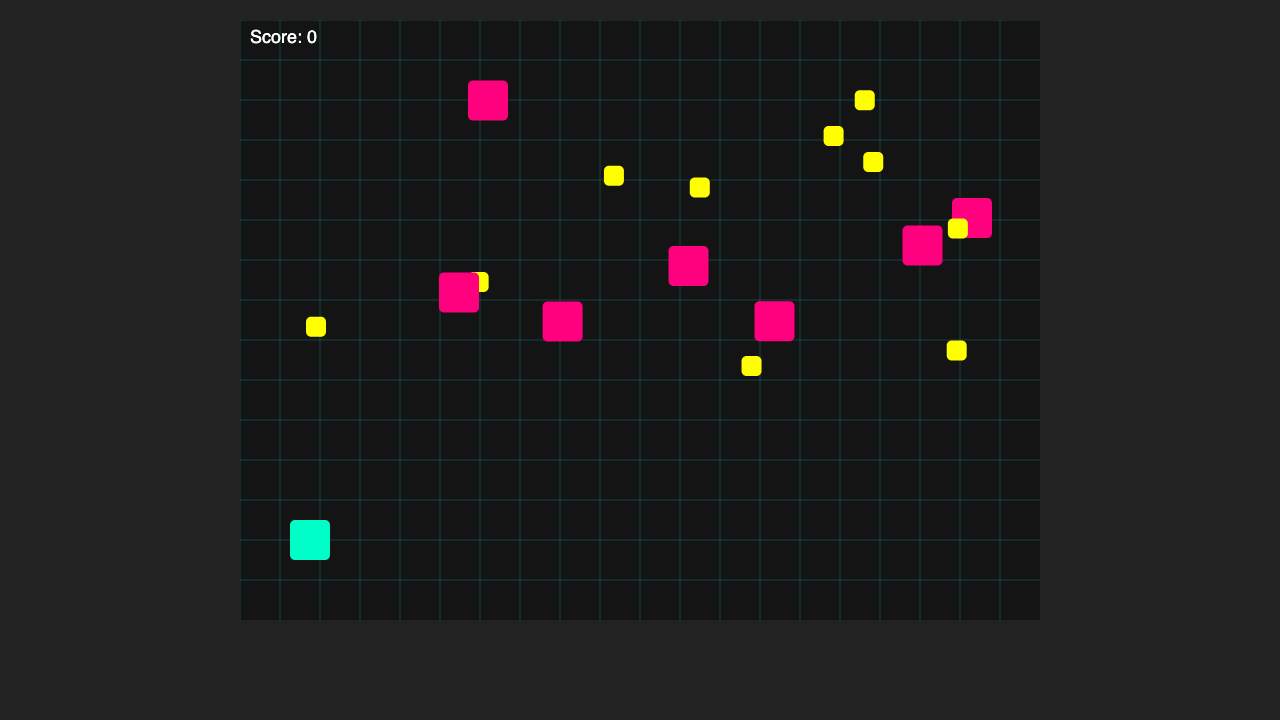
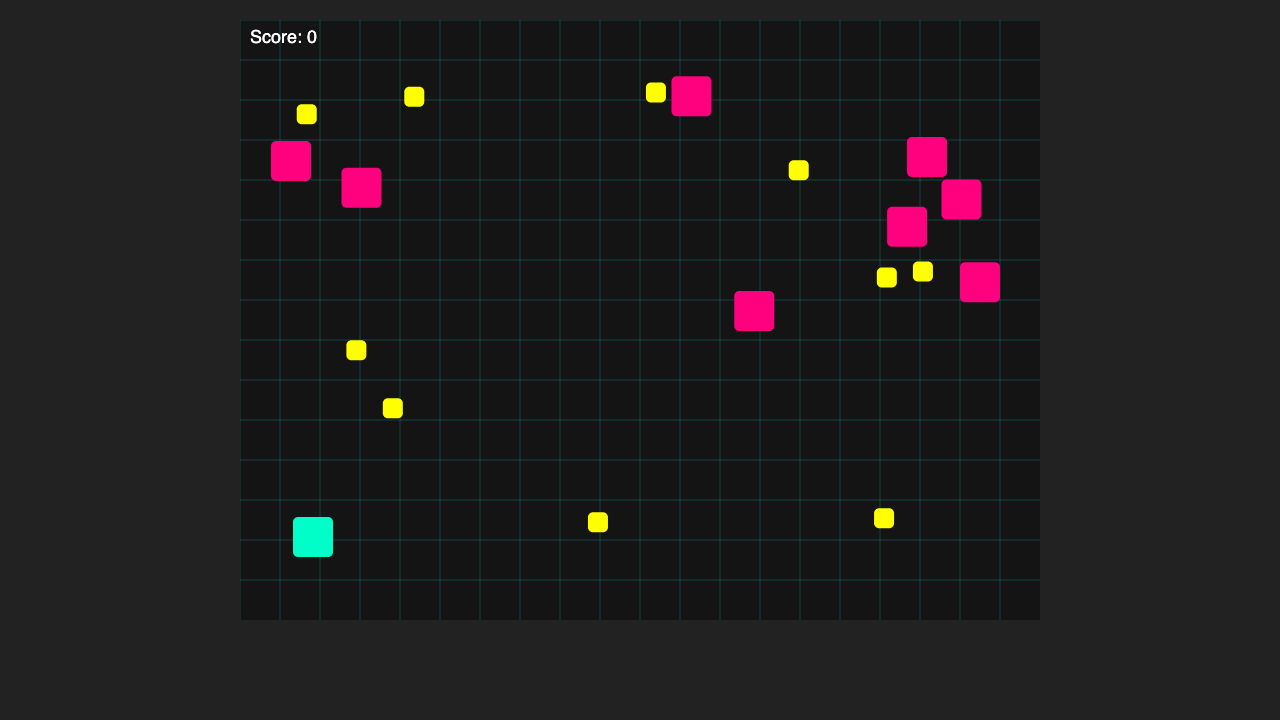
fix bug in getting components

diff --git a/metrics/parse_ast.py b/metrics/parse_ast.py
@@ -1207,11 +1207,10 @@ async def get_entities_from_global(page):
         """
         window.capturedECS = {
             entities: {},
-            components: {},
+            components: new Set(),  // Changed to Set for easier unique component tracking
             systems: {}
         };
         
-        // Hook to directly extract entities from the global entities variable
         window.extractEntitiesFromGlobal = function() {
             const result = {};
             
@@ -1294,12 +1293,26 @@ async def get_entities_from_global(page):
                     if (entity && typeof entity === 'object') {
                         const entityId = entity.id || entity.name || entity.type || `entity_${index}`;
                         window.capturedECS.entities[entityId] = entity.components || {};
+                        
+                        // Extract component names from the entity
+                        if (entity.components) {
+                            Object.keys(entity.components).forEach(compName => {
+                                window.capturedECS.components[compName] = true;
+                            });
+                        }
                     }
                 });
             } else if (typeof entities === 'object') {
                 Object.entries(entities).forEach(([id, entity]) => {
                     if (entity && typeof entity === 'object') {
                         window.capturedECS.entities[id] = entity.components || {};
+                        
+                        // Extract component names from the entity
+                        if (entity.components) {
+                            Object.keys(entity.components).forEach(compName => {
+                                window.capturedECS.components[compName] = true;
+                            });
+                        }
                     }
                 });
             }